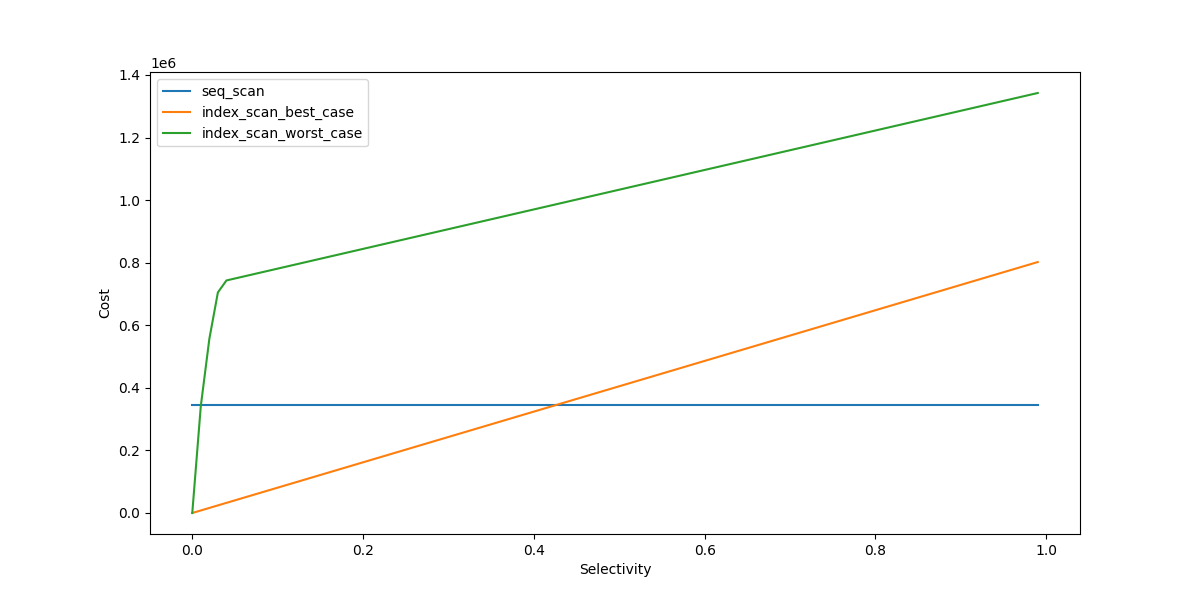
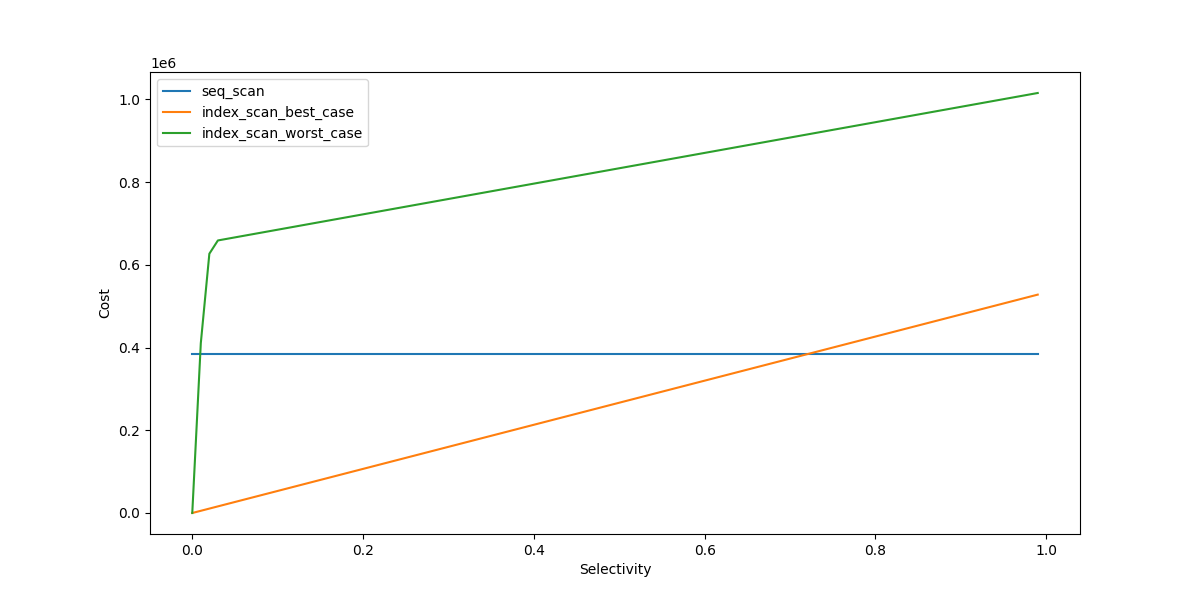
Index scan deep dive - WIP

diff --git a/postgres/index_scan_perf/draw_graph.py b/postgres/index_scan_perf/draw_graph.py
@@ -79,15 +79,162 @@ def get_plot_seq_index(xs, T, N, b, t, n, k1, k2, scenario):
     plt.savefig(f"./cost_{scenario}.png")
 
 
+def compute_cost(xs, T, N, b, t, n, k1, k2):
+    index_cpu_cost = []
+    index_IO_cost = []
+    table_cpu_cost = []
+    table_IO_cost_worst = []
+    table_IO_cost_best = []
+
+    for s in xs:
+        index_cpu_cost.append((0.005 + k2 * 0.0025) * s * n)
+        index_IO_cost.append(4 * s * t)
+        table_cpu_cost.append((0.01 + (k1 - k2) * 0.0025) * s * N)
+        table_IO_cost_best.append(s * T)
+
+        if T <= b:
+            a = 2 * T * N * s / (2 * T + N * s)
+            IO_cost = 4 * min(a, T)
+        elif s <= 2 * T * b / (N * (2 * T - b)):
+            IO_cost = 8 * T * N * s / (2 * T + N * s)
+        else:
+            IO_cost = 4 * (b + (N * s - 2 * T * b / (2 * T - b)) * (T - b) / T)
+        table_IO_cost_worst.append(IO_cost)
+    return (
+        index_cpu_cost,
+        index_IO_cost,
+        table_cpu_cost,
+        table_IO_cost_worst,
+        table_IO_cost_best,
+    )
+
+
+def get_plot_index_breakdown(cost, scenario):
+    (
+        index_cpu_cost,
+        index_IO_cost,
+        table_cpu_cost,
+        table_IO_cost_worst,
+        table_IO_cost_best,
+    ) = cost
+    # Specify colors for each series
+    colors = ["blue", "orange", "green", "red"]
+    plt.figure(figsize=(12, 6))
+
+    # Plotting the first area chart
+    plt.subplot(1, 2, 1)
+    series = [
+        (index_cpu_cost, "Index CPU Cost"),
+        (index_IO_cost, "Index IO Cost"),
+        (table_cpu_cost, "Table CPU Cost"),
+        (table_IO_cost_worst, "Table IO Cost Worst"),
+    ]
+
+    cumulated = []
+    last_cumulated = []
+    for i in range(0, len(series)):
+        data, label = series[i]
+        color = colors[i]
+
+        if i == 0:
+            last_cumulated = [0 for _ in range(len(data))]
+            cumulated = [0 for _ in range(len(data))]
+        else:
+            last_cumulated = [elem for elem in cumulated]
+
+        cumulated = [cumulated[i] + data[i] for i in range(len(data))]
+        plt.plot(
+            cumulated,
+            label=label,
+            color=color,
+            alpha=0.7,
+        )
+
+        plt.fill_between(
+            range(len(data)),
+            last_cumulated,
+            cumulated,
+            color=color,
+            alpha=0.3,
+            edgecolor=color,
+        )
+
+    plt.xlabel("s")
+    plt.ylabel("Cost")
+    plt.title("Area Chart - Worst Case")
+    plt.legend()
+
+    # Plotting the second area chart
+    plt.subplot(1, 2, 2)
+    series = [
+        (index_cpu_cost, "Index CPU Cost"),
+        (index_IO_cost, "Index IO Cost"),
+        (table_cpu_cost, "Table CPU Cost"),
+        (table_IO_cost_best, "Table IO Cost Best"),
+    ]
+    cumulated = []
+    last_cumulated = []
+    for i in range(0, len(series)):
+        data, label = series[i]
+        color = colors[i]
+
+        if i == 0:
+            last_cumulated = [0 for _ in range(len(data))]
+            cumulated = [0 for _ in range(len(data))]
+        else:
+            last_cumulated = [elem for elem in cumulated]
+
+        cumulated = [cumulated[i] + data[i] for i in range(len(data))]
+        plt.plot(
+            cumulated,
+            label=label,
+            color=color,
+            alpha=0.7,
+        )
+
+        plt.fill_between(
+            range(len(data)),
+            last_cumulated,
+            cumulated,
+            color=color,
+            alpha=0.3,
+            edgecolor=color,
+        )
+
+    plt.xlabel("s")
+    plt.ylabel("Cost")
+    plt.title("Area Chart - Best Case")
+    plt.legend()
+
+    # Adjust layout for better visualization
+    plt.tight_layout()
+
+    # Show the plot
+    plt.savefig(f"./index_cost_breakdown_{scenario}.png")
+
+
 xs = np.arange(0, 1, 0.01)
-T = 179509
-N = 10950049
+T = 161984
+N = 14838350
 b = 524288
-t = 102924
-n = 10950049
+t = 18663
+n = 14838350
 k1 = 2
 k2 = 1
 get_plot_seq_index(xs, T, N, b, t, n, k1, k2, "table_fit_cache_1")
+get_plot_index_breakdown(
+    compute_cost(
+        xs,
+        T,
+        N,
+        b,
+        t,
+        n,
+        k1,
+        k2,
+    ),
+    "table_fit_cache_1",
+)
 
 T = 252687
 N = 36233108
@@ -97,15 +244,41 @@ n = 36233108
 k1 = 1
 k2 = 1
 get_plot_seq_index(xs, T, N, b, t, n, k1, k2, "table_fit_cache_2")
+get_plot_index_breakdown(
+    compute_cost(
+        xs,
+        T,
+        N,
+        b,
+        t,
+        n,
+        k1,
+        k2,
+    ),
+    "table_fit_cache_2",
+)
 
-T = 179509
-N = 10950049
+T = 161984
+N = 14838350
 b = 131072
-t = 102924
-n = 10950049
+t = 18663
+n = 14838350
 k1 = 2
 k2 = 1
 get_plot_seq_index(xs, T, N, b, t, n, k1, k2, "table_bigger_cache_1")
+get_plot_index_breakdown(
+    compute_cost(
+        xs,
+        T,
+        N,
+        b,
+        t,
+        n,
+        k1,
+        k2,
+    ),
+    "table_bigger_cache_1",
+)
 
 T = 252687
 N = 36233108
@@ -115,6 +288,20 @@ n = 36233108
 k1 = 1
 k2 = 1
 get_plot_seq_index(xs, T, N, b, t, n, k1, k2, "table_bigger_cache_2")
+get_plot_index_breakdown(
+    compute_cost(
+        xs,
+        T,
+        N,
+        b,
+        t,
+        n,
+        k1,
+        k2,
+    ),
+    "table_bigger_cache_2",
+)
+
 
 # get_plot_by_selectivity(page_fetched_worst_case, xs, T, N, b)
 

diff --git a/postgres/index_scan_perf/index_scan_perf.md b/postgres/index_scan_perf/index_scan_perf.md
@@ -39,17 +39,17 @@ In PG, the term of `cost` refers to a number in an arbitrary unit, that indicate
 **cpu_operator_cost**: Cost of execute an operator in a query. Default value is 0.0025.
 
 Our goal is to have a visualization of each scan type cost. To avoid too many case figures in the calculation, we assume the following:
-- The index is a fully one, not partial
-- The query doesn't contain operators that lead to a loop. Example: IN, = ANY(ARRAY()), JOIN
+- The index is a fully index, not partial one.
+- The query doesn't contain operators that lead to a loop. Example: `IN, = ANY(ARRAY()), JOIN`.
 We consider these situations in the end to generalize the result.
 
 In the following calculation, we use:
-- T refers to the number of pages in the table
-- N refers to the number of tuples in the table
-- t refers to the number of pages in the index
-- n refers to the number of tuples in the index
-- b refers to the number of pages in the cache (both Postgres and OS)
-- k1 refers to the number of conditions in the query
+- T refers to the number of pages in the table.
+- N refers to the number of tuples in the table.
+- t refers to the number of pages in the index.
+- n refers to the number of tuples in the index.
+- b refers to the number of pages in the cache (both Postgres and OS).
+- k1 refers to the number of conditions in the query.
 - k2 refers to the number of conditions used by the index.
 
 ### Sequential Scan cost
@@ -83,13 +83,13 @@ The index space visiting cost using BTREE  is computed by 2 functions `genericco
 
 > **Selectivity**
 >
-> In Index Scan, **indexSelectivity** refers to the ratio of the number of table entries that satisfy the filter conditions on the total number of table entries. Let's call it `s`.
+> In Index Scan, **indexSelectivity** refers to the ratio of the number of table entries that satisfy the filter conditions to the total number of table entries. Let's call it `s`.
 >
 > We have:
 >
 > $$n\\_tuples\\_fetched = s * n\\_tuples = s * N$$
 >
-> "For a btree scan, only leading '=' quals plus inequality quals for the immediately next attribute contribute to index selectivity". So **btreeSelectivity** is greater than or equal to **indexSelectivity**. We use `bs` to refers to the btreeSelectivity. We have:
+> For the btree access method, **btreeSelectivity** is the ratio of the number of index entries that PG need to process to the total number of index entries. "For a btree scan, only leading '=' quals plus inequality quals for the immediately next attribute contribute to index selectivity". **btreeSelectivity** is greater than or equal to **indexSelectivity**. We use `bs` to refers to the btreeSelectivity. We have:
 > 
 > $$n\\_index\\_tuples\\_read =  bs * n\\_index\\_tuples = bs * n$$ 
 > 
@@ -115,11 +115,11 @@ $$index\\_IO\\_cost = random\\_page\\_cost * n\\_index\\_pages\\_fetched = 4 * b
 We have the `index_cost` formula as following:
 $$index\\_cost = (0.005 + k_2 * 0.0025) * bs * n + 4 *  bs * t$$
 
-Because `bs >= s`, we can replace `bs = s + c`:
+Because `bs >= s`, we can replace `bs = s + d`:
 
-$$index\\_cost = (0.005 + k_2 * 0.0025) * (s + c) * n + 4 * (s + c) * t = (0.005 + k_2 * 0.0025) * s * n + 4 * s * t + C$$
+$$index\\_cost = (0.005 + k_2 * 0.0025) * (s + d) * n + 4 * (s + d) * t = (0.005 + k_2 * 0.0025) * s * n + 4 * s * t + D$$
 
-We can remove constant from the formula:
+We remove constant `D` from the formula:
 $$index\\_cost = (0.005 + k_2 * 0.0025) * s * n + 4 * s * t$$
 
 #### Table cost
@@ -143,8 +143,8 @@ Table IO cost depends on the number of pages we need to retrieve from PG. This n
 >It indicates the similarity between the logical order of index entries and the physical order of corresponds heap entries. The range of index correlation values is [-1, 1]. The value 1 means index entries and heap entries are in the same order. The value -1 means they are in inverted order. When this value is 0, there are no correlation at all between them. In the calculation, we use `C` to refer to Index Correlation.
 
 There are 3 situations:
-- Best case (C = 1 or C = -1)
-- Worst case (C = 0)
+- Best case (C = 1 or C = -1).
+- Worst case (C = 0).
 - Normal cases (C is between -1 and 1 but not equals to 0).
 
 **Best case**
@@ -192,25 +192,33 @@ $$table\\_IO_cost\\ = table\\_IO\\_cost\\_worst\\_case + C^2(table\\_IO\\_cost\\
 
 
 ### Visualization
-The cost of index size depends on many parameters. We consider some scenarios where T, N, b, t, n, k1 and k2 are constants. We draw a graph that illustrates the relation between the scan cost and `s`:
+The formulas mentioned previously depend on many parameters. We consider some scenarios where `T`, `N`, `b`, `t`, `n`, `k1` and `k2` are constants. Using the database `imdb` available [here](https://dataverse.harvard.edu/dataset.xhtml?persistentId=doi:10.7910/DVN/2QYZBT), we draw graphs that illustrate the relation between the scan cost and `s`.
 
 #### Scenario 1: The table size is smaller than the cache size (T <= b)
 
-**Configuration 1**: From table with 10950049 rows. Each row contains 2 varchar columns, 1 timestamp column and 2 integer columns. The index is on the varchar column and is unique. The effective cache size is 4Gb. The query contains 2 conditions and 1 of them is on the index.
+**Configuration 1**: Table `movie_info`. The effective cache size is 4Gb. The query contains filters on 2 attributes and 1 of them has an index. The index is not unique. Example:
+
+```sql
+SELECT * FROM movie_info WHERE movie_id >= :lower_bound AND movie_id <= :upper_bound AND info LIKE '%version%';
+```
 
 ```
-T = 179509
-N = 10950049
+T = 161984
+N = 14838350
 b = 524288
-t = 102924
-n = 10950049
+t = 18663
+n = 14838350
 k1 = 2
 k2 = 1
 ```
 
 ![Seq & Index cost](cost_table_fit_cache_1.png)
 
-**Configuration 2**: From table with 36233108 rows. Each row contains 6 integer columns and 1 varchar column. The index is on the integer column and is not unique. The effective cache size is 4Gb. The query contains 1 condition it is on the index.
+**Configuration 2**: Table `cast_info`. The effective cache size is 4Gb. The query contains filters on 1 index attribute. The index is not unique. Example:
+
+```sql
+SELECT * FROM cast_info WHERE movie_id >= :lower_bound AND movie_id <= :upper_bound;
+```
 
 ```
 T = 252687
@@ -224,18 +232,17 @@ k2 = 1
 
 ![Seq & Index cost](cost_table_fit_cache_2.png)
 
-The pattern is quite the same.
 
 #### Scenario 2: The table size is bigger than the cache size (T > b)
 
 **Configuration 1**: Same as the configuration 1 of the previous scenario. We reduced the effective cache size to only 1Gb.
 
 ```
-T = 179509
-N = 10950049
+T = 161984
+N = 14838350
 b = 131072
-t = 102924
-n = 10950049
+t = 18663
+n = 14838350
 k1 = 2
 k2 = 1
 ```
